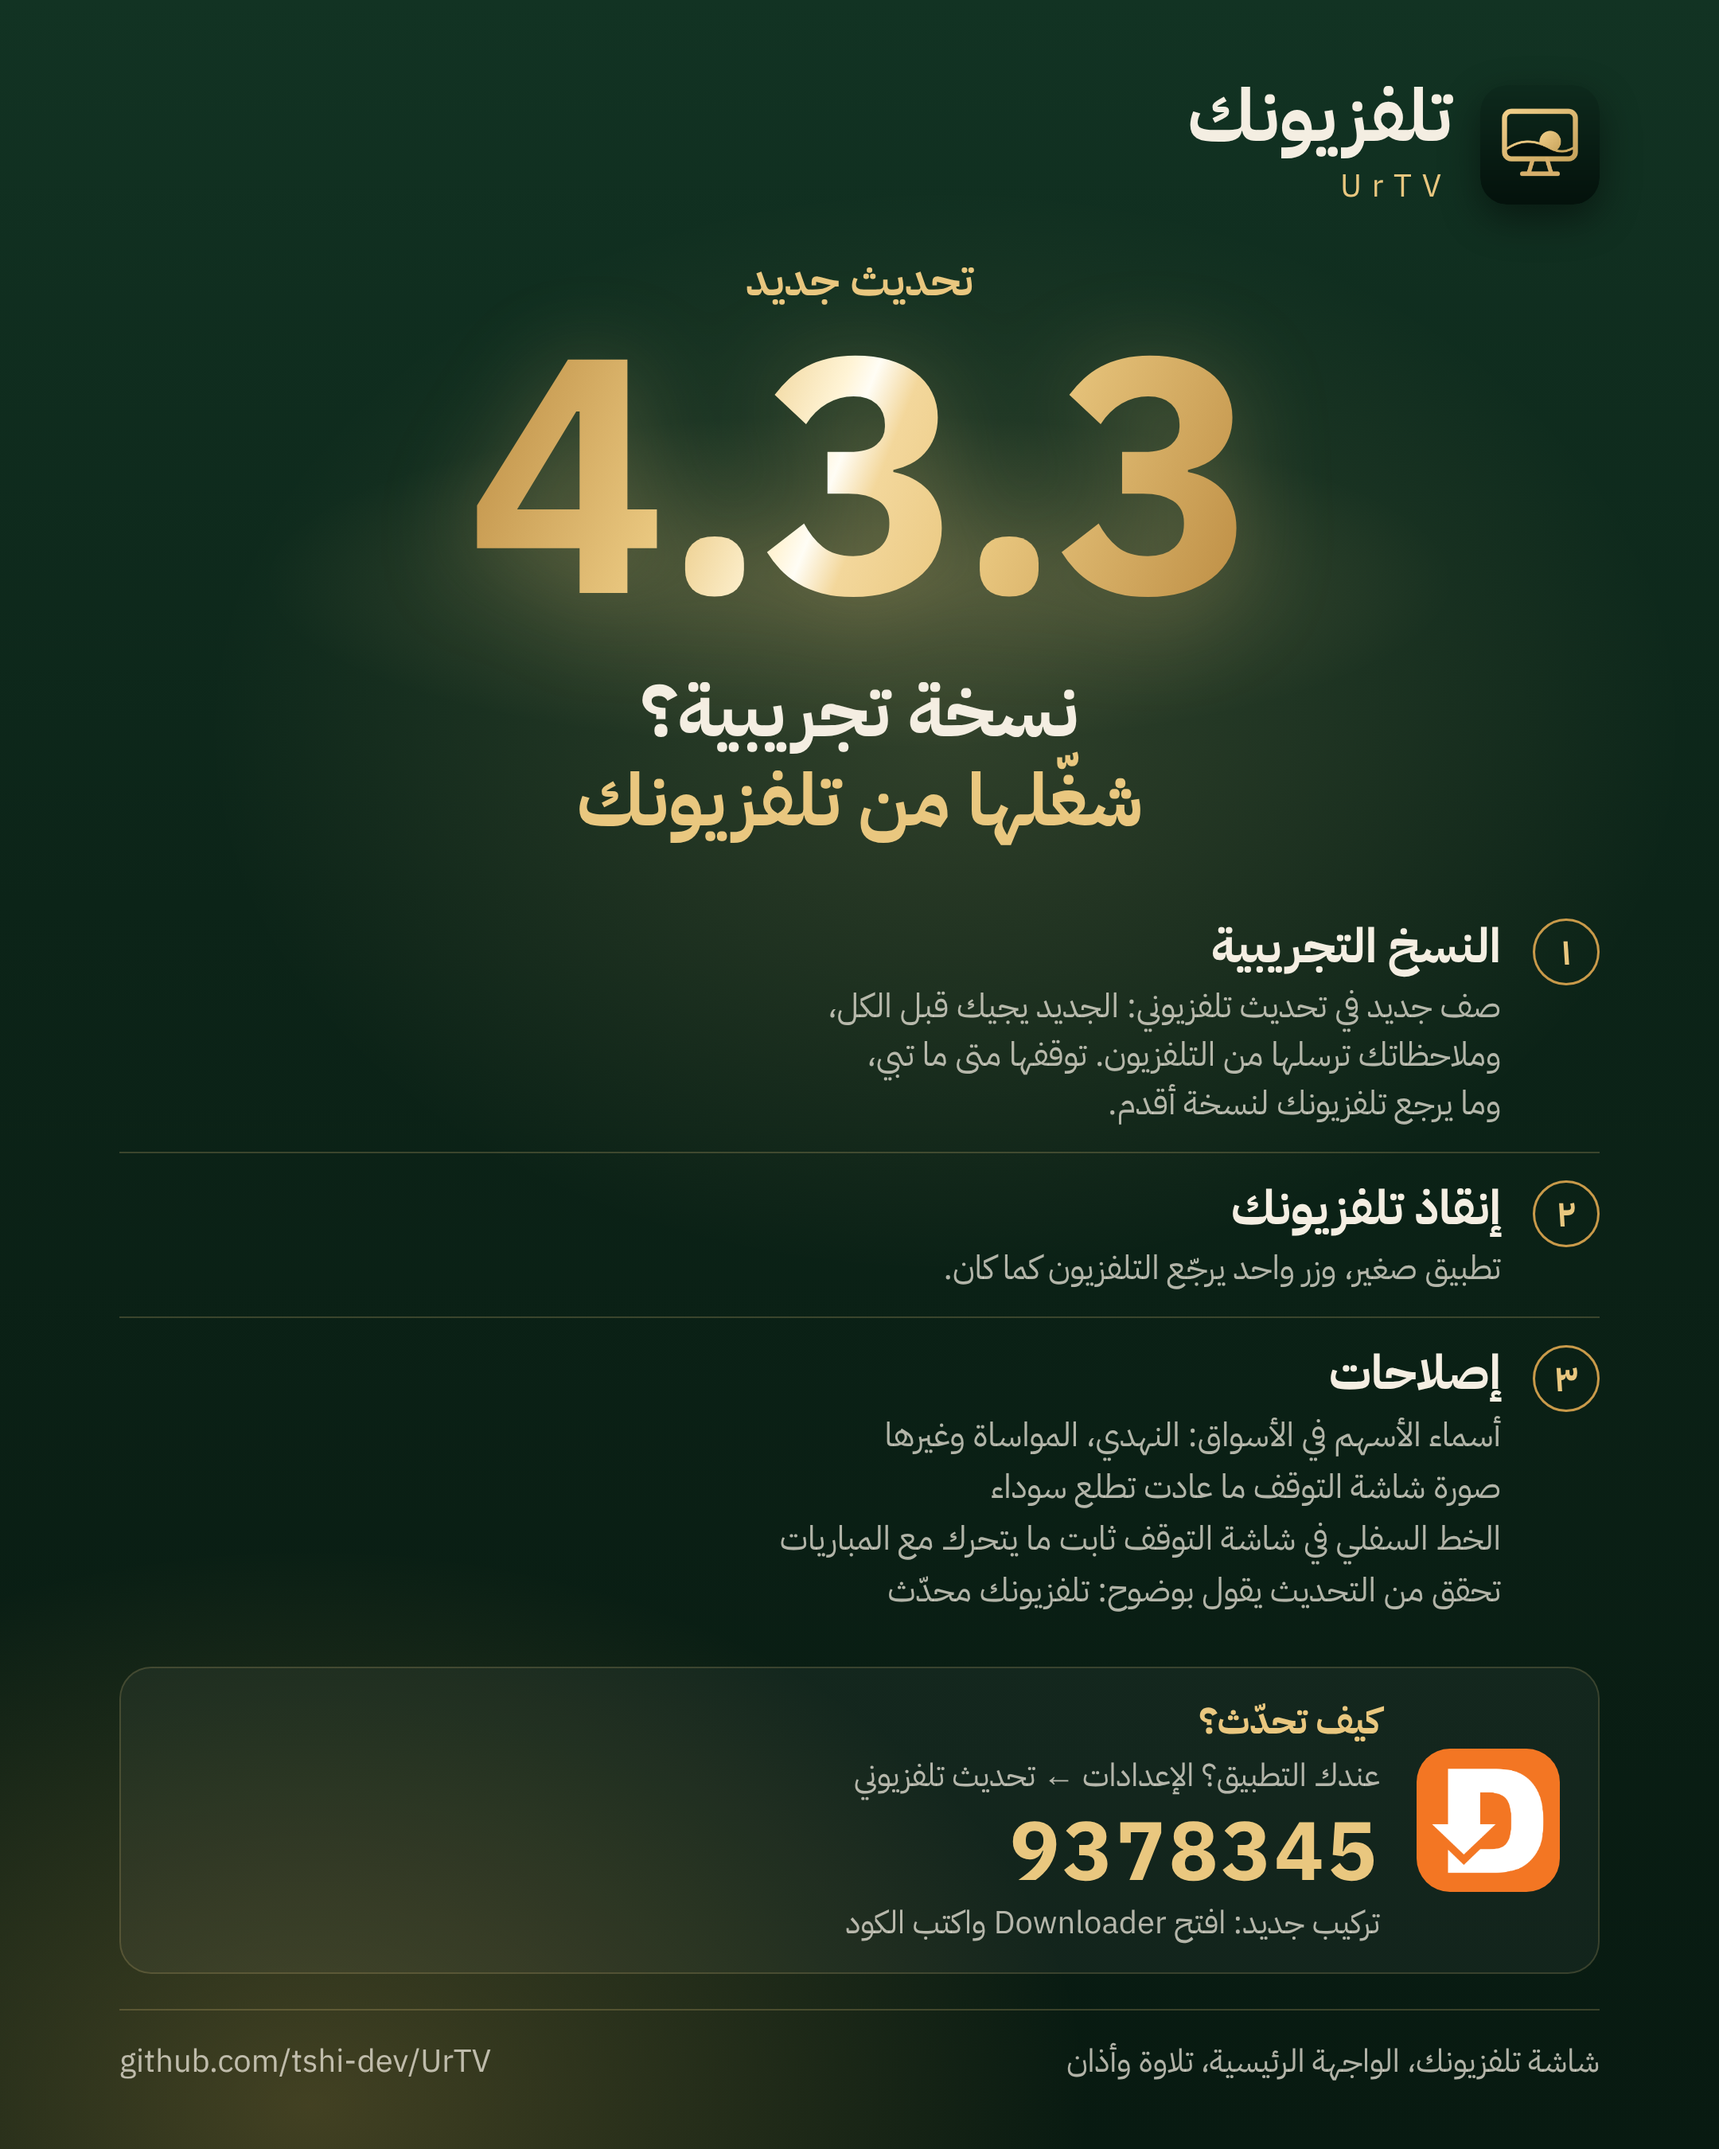
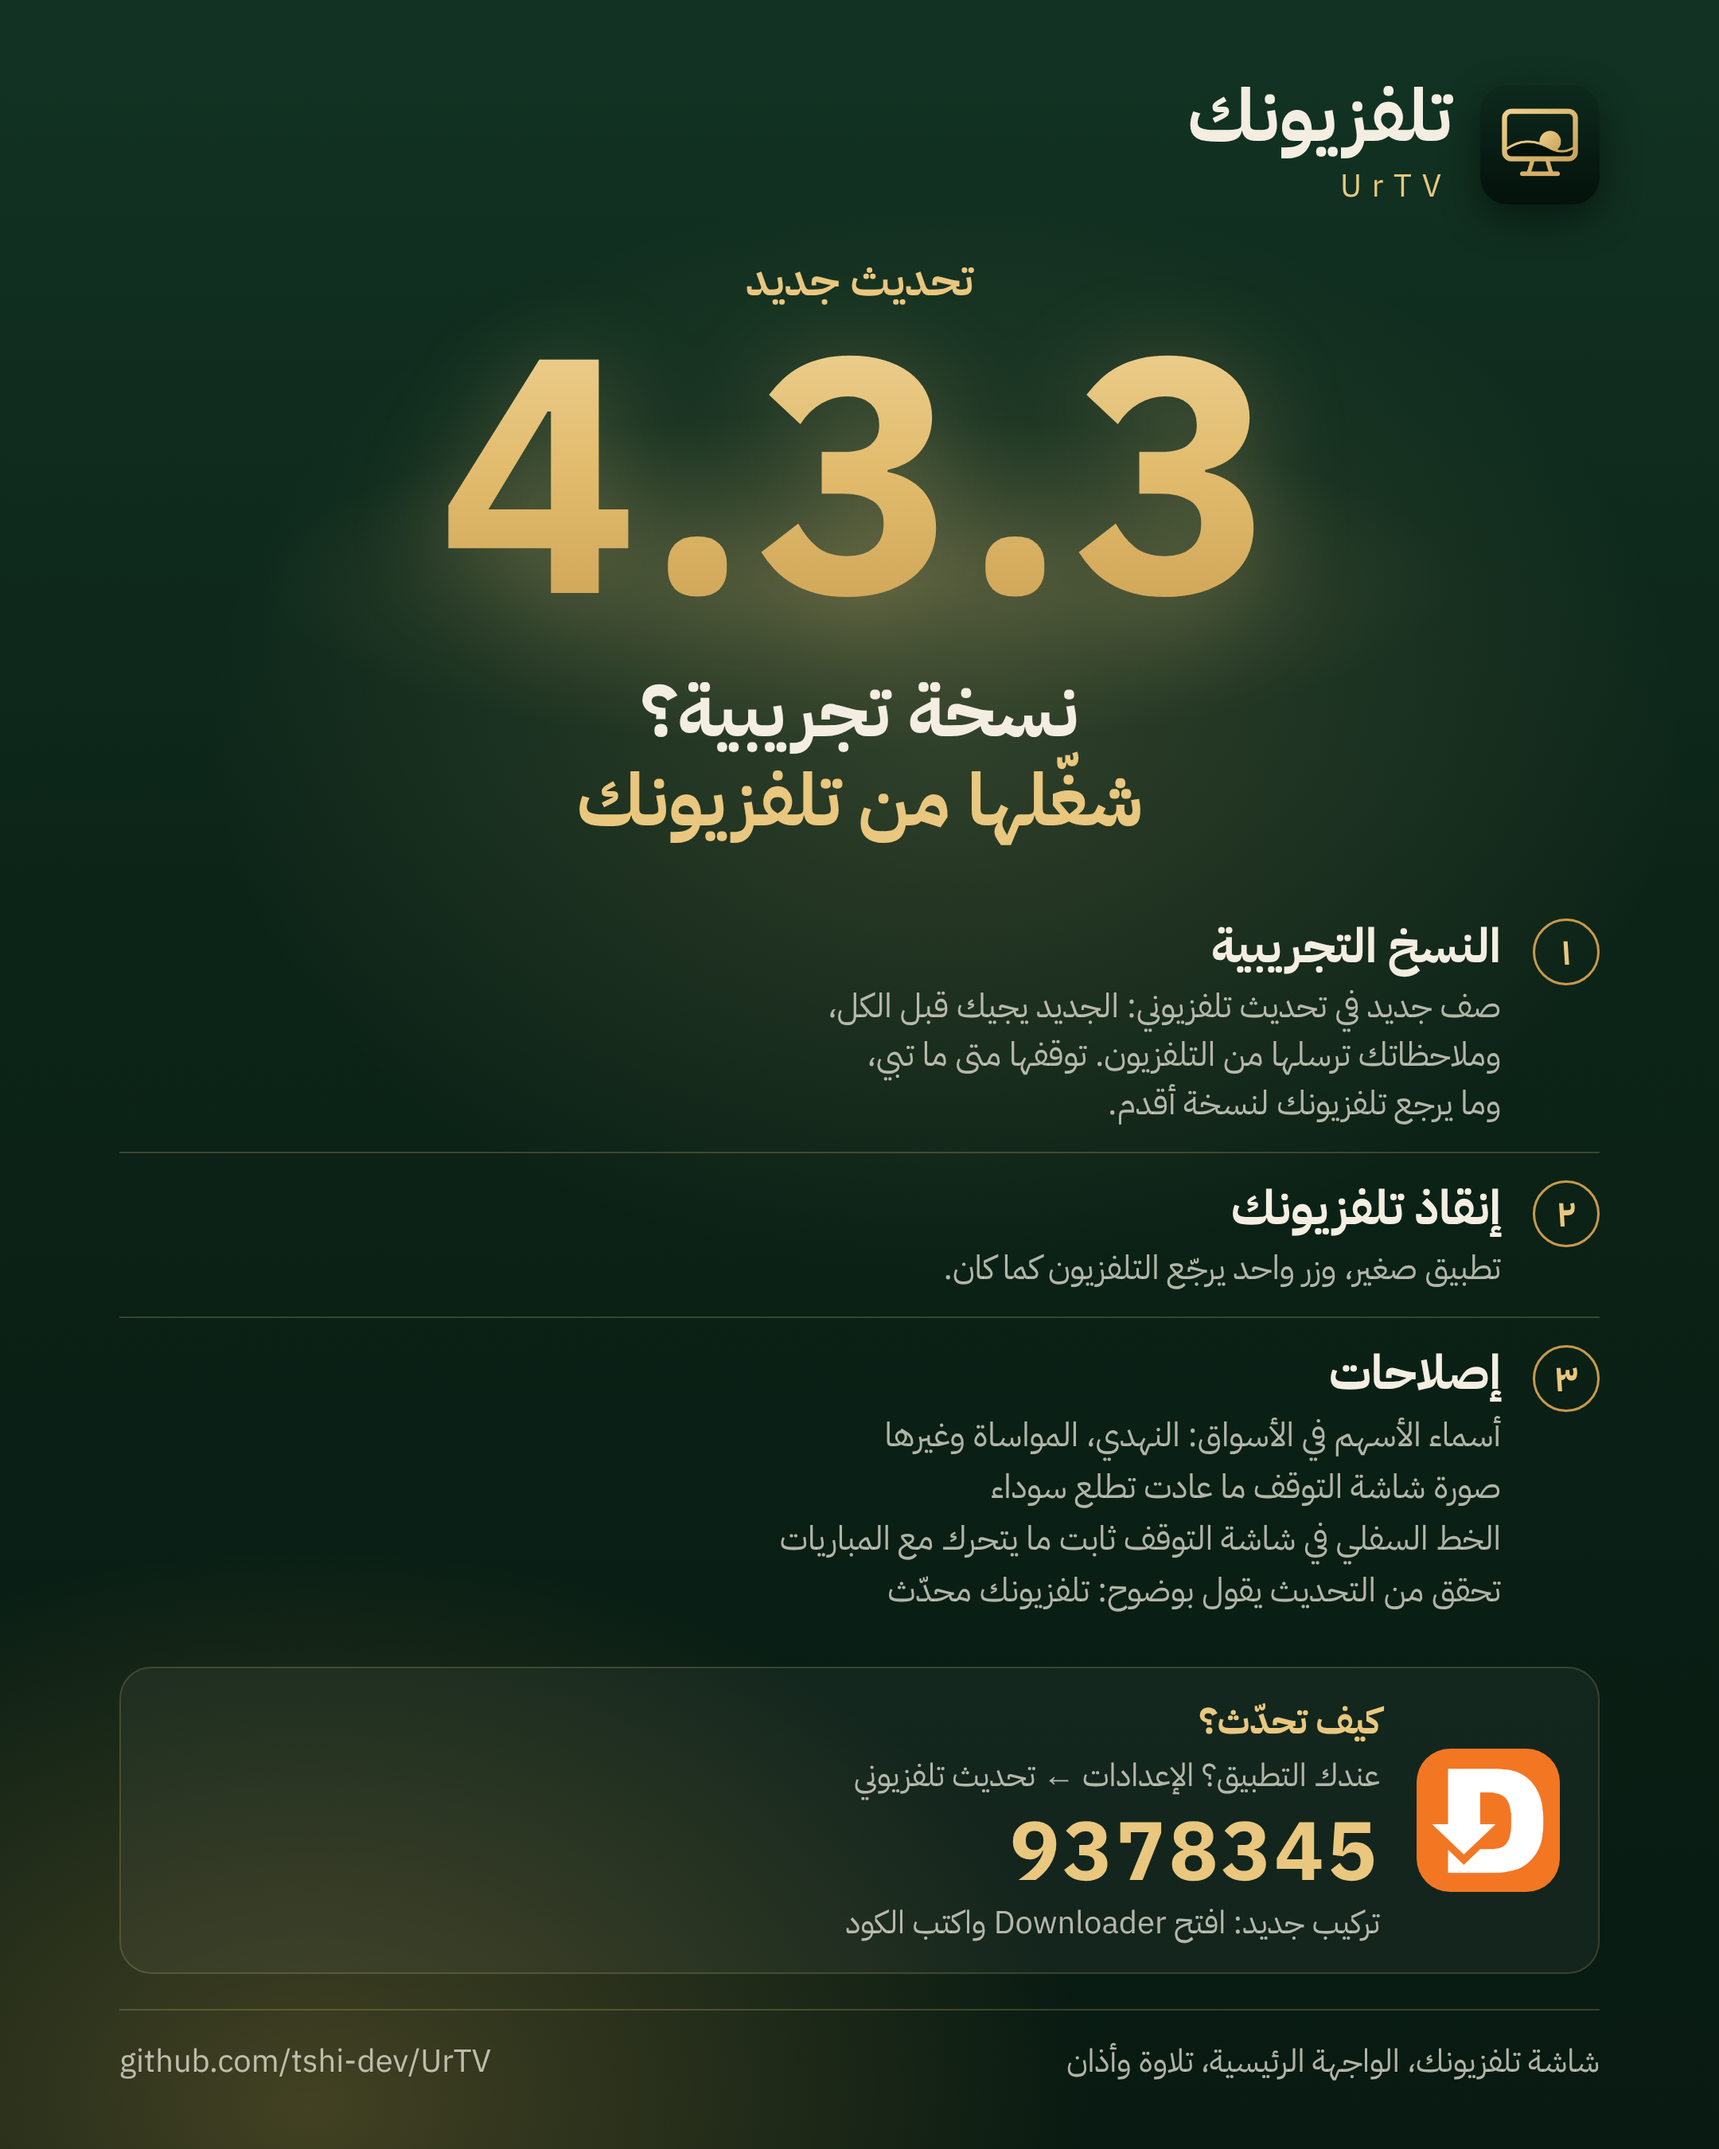
Poster 4.3.3: «4.3.3» as one even gold (the owner: the sheen washed the middle «.3» white): (a) a faint sheen from the top, the same on every digit, at most light gold; (b) a flat gold with a soft outer glow; even spacing; the glow behind kept

Changed region(s): [[0.2481, 0.1556, 0.7444, 0.28]]

diff --git a/docs/posters/4.3.3/poster-433-b.html b/docs/posters/4.3.3/poster-433-b.html
@@ -1,0 +1,99 @@
+<!doctype html>
+<html lang="ar" dir="rtl">
+<head>
+<meta charset="utf-8">
+<title>UrTV 4.3.3</title>
+<style>
+@font-face{font-family:'P';font-weight:400;src:url(a/ibm-plex-sans-arabic-arabic-400-normal.woff2);unicode-range:U+0600-06FF,U+0750-077F,U+FB50-FDFF,U+FE70-FEFF,U+200C-200F}
+@font-face{font-family:'P';font-weight:400;src:url(a/ibm-plex-sans-arabic-latin-400-normal.woff2);unicode-range:U+0000-00FF,U+2000-206F,U+2190-21FF}
+@font-face{font-family:'P';font-weight:500;src:url(a/ibm-plex-sans-arabic-arabic-500-normal.woff2);unicode-range:U+0600-06FF,U+0750-077F,U+FB50-FDFF,U+FE70-FEFF,U+200C-200F}
+@font-face{font-family:'P';font-weight:500;src:url(a/ibm-plex-sans-arabic-latin-500-normal.woff2);unicode-range:U+0000-00FF,U+2000-206F,U+2190-21FF}
+@font-face{font-family:'P';font-weight:600;src:url(a/ibm-plex-sans-arabic-arabic-600-normal.woff2);unicode-range:U+0600-06FF,U+0750-077F,U+FB50-FDFF,U+FE70-FEFF,U+200C-200F}
+@font-face{font-family:'P';font-weight:600;src:url(a/ibm-plex-sans-arabic-latin-600-normal.woff2);unicode-range:U+0000-00FF,U+2000-206F,U+2190-21FF}
+@font-face{font-family:'P';font-weight:700;src:url(a/ibm-plex-sans-arabic-arabic-700-normal.woff2);unicode-range:U+0600-06FF,U+0750-077F,U+FB50-FDFF,U+FE70-FEFF,U+200C-200F}
+@font-face{font-family:'P';font-weight:700;src:url(a/ibm-plex-sans-arabic-latin-700-normal.woff2);unicode-range:U+0000-00FF,U+2000-206F,U+2190-21FF}
+/* the app's fonts first (Thmanyah, where installed), IBM Plex Sans Arabic otherwise */
+:root{--gold:#E9C77F;--gold2:#C99A4A;--ink:#F4EEE2;--dim:rgba(244,238,226,.72);--line:rgba(233,199,127,.22)}
+*{box-sizing:border-box;margin:0;padding:0}
+html,body{width:2160px;height:2700px;overflow:hidden}
+body{direction:rtl;color:var(--ink);font-family:'Thmanyah','P',sans-serif;position:relative;
+  background:
+    radial-gradient(1400px 1000px at 18% 98%,rgba(201,154,74,.30),rgba(201,154,74,0) 70%),
+    radial-gradient(1500px 1100px at 55% 34%,rgba(233,199,127,.16),rgba(233,199,127,0) 62%),
+    linear-gradient(180deg,#123323 0%,#0C2418 42%,#081A11 100%)}
+.disp{font-family:'Thmanyah Display','P',sans-serif}
+.top{position:absolute;top:100px;right:150px;left:150px;display:flex;align-items:center;gap:36px}
+.top img{width:150px;height:150px;border-radius:34px;box-shadow:0 18px 50px rgba(0,0,0,.45)}
+.brand b{display:block;font-size:92px;font-weight:700;line-height:1}
+.brand span{display:block;font-size:40px;letter-spacing:.32em;color:var(--gold);direction:ltr;text-align:right;margin-top:12px}
+.hero{position:absolute;top:310px;left:0;right:0;text-align:center}
+.kick{font-size:56px;font-weight:600;color:var(--gold)}
+.ver{position:relative;display:inline-block;direction:ltr;font-size:420px;font-weight:700;line-height:1;letter-spacing:.02em;margin-top:0;
+  /* 4.3.3 as one flat gold, a soft outer glow only */
+  color:#E2BC6E;
+  text-shadow:0 0 40px rgba(233,199,127,.35),0 0 120px rgba(233,199,127,.22)}
+.glow{position:absolute;left:50%;top:520px;width:1500px;height:420px;transform:translateX(-50%);
+  background:radial-gradient(closest-side,rgba(233,199,127,.20),rgba(233,199,127,0));pointer-events:none}
+h1{font-size:92px;font-weight:700;line-height:1.22;margin-top:24px}
+h1 em{font-style:normal;color:var(--gold)}
+.items{position:absolute;top:1150px;right:150px;left:150px}
+.it{display:flex;gap:40px;align-items:flex-start;padding:30px 0;border-top:2px solid var(--line)}
+.it:first-child{border-top:0;padding-top:0}
+.n{flex:none;width:84px;height:84px;border-radius:50%;border:3px solid var(--gold2);color:var(--gold);display:flex;align-items:center;justify-content:center;font-size:48px;font-weight:600;margin-top:4px}
+.t{font-size:60px;font-weight:700;line-height:1.3}
+.s{font-size:42px;color:var(--dim);line-height:1.45;margin-top:6px}
+.fix{font-size:42px;color:var(--dim);line-height:1.55;margin-top:6px}
+.how{position:absolute;bottom:220px;right:150px;left:150px;border-radius:40px;padding:34px 50px;display:flex;align-items:center;gap:46px;
+  background:rgba(255,255,255,.045);box-shadow:inset 0 0 0 2px rgba(233,199,127,.18)}
+.how .dl{flex:none;width:180px;height:180px;border-radius:42px;overflow:hidden}
+.how .dl img{width:198px;height:198px;margin:-9px}
+.how .q{font-size:46px;font-weight:700;color:var(--gold)}
+.how .p{font-size:40px;color:var(--dim);margin-top:4px}
+.how .code{direction:ltr;text-align:right;font-size:104px;font-weight:700;line-height:1.05;letter-spacing:4px;color:var(--gold);margin-top:12px}
+.foot{position:absolute;bottom:80px;right:150px;left:150px;display:flex;justify-content:space-between;font-size:40px;color:var(--dim);
+  border-top:2px solid var(--line);padding-top:34px}
+.foot .l{direction:ltr}
+bdi{unicode-bidi:isolate}
+</style>
+</head>
+<body>
+<div class="top">
+  <img src="a/urtv.png" alt="">
+  <div class="brand"><b class="disp">تلفزيونك</b><span>UrTV</span></div>
+</div>
+
+<div class="glow"></div>
+<div class="hero">
+  <div class="kick">تحديث جديد</div>
+  <div class="ver disp">4.3.3</div>
+  <h1 class="disp">نسخة تجريبية؟<br><em>شغّلها من تلفزيونك</em></h1>
+</div>
+
+<div class="items">
+  <div class="it"><div class="n">١</div><div>
+    <div class="t">النسخ التجريبية</div>
+    <div class="s">صف جديد في تحديث تلفزيوني: الجديد يجيك قبل الكل،<br>وملاحظاتك ترسلها من التلفزيون. توقفها متى ما تبي،<br>وما يرجع تلفزيونك لنسخة أقدم.</div>
+  </div></div>
+  <div class="it"><div class="n">٢</div><div>
+    <div class="t">إنقاذ تلفزيونك</div>
+    <div class="s">تطبيق صغير، وزر واحد يرجّع التلفزيون كما كان.</div>
+  </div></div>
+  <div class="it"><div class="n">٣</div><div>
+    <div class="t">إصلاحات</div>
+    <div class="fix">أسماء الأسهم في الأسواق: النهدي، المواساة وغيرها<br>صورة شاشة التوقف ما عادت تطلع سوداء<br>الخط السفلي في شاشة التوقف ثابت ما يتحرك مع المباريات<br>تحقق من التحديث يقول بوضوح: تلفزيونك محدّث</div>
+  </div></div>
+</div>
+
+<div class="how">
+  <div class="dl"><img src="a/downloader.png" alt=""></div>
+  <div>
+    <div class="q">كيف تحدّث؟</div>
+    <div class="p">عندك التطبيق؟ الإعدادات ← تحديث تلفزيوني</div>
+    <div class="code"><bdi>9378345</bdi></div>
+    <div class="p">تركيب جديد: افتح <bdi>Downloader</bdi> واكتب الكود</div>
+  </div>
+</div>
+
+<div class="foot"><div>شاشة تلفزيونك، الواجهة الرئيسية، تلاوة وأذان</div><div class="l">github.com/tshi-dev/UrTV</div></div>
+</body>
+</html>

diff --git a/docs/posters/4.3.3/poster-433.html b/docs/posters/4.3.3/poster-433.html
@@ -28,9 +28,10 @@ body{direction:rtl;color:var(--ink);font-family:'Thmanyah','P',sans-serif;positi
 .brand span{display:block;font-size:40px;letter-spacing:.32em;color:var(--gold);direction:ltr;text-align:right;margin-top:12px}
 .hero{position:absolute;top:310px;left:0;right:0;text-align:center}
 .kick{font-size:56px;font-weight:600;color:var(--gold)}
-.ver{position:relative;display:inline-block;direction:ltr;font-size:420px;font-weight:700;line-height:1;letter-spacing:-6px;margin-top:0;
+.ver{position:relative;display:inline-block;direction:ltr;font-size:420px;font-weight:700;line-height:1;letter-spacing:.02em;margin-top:0;
   color:transparent;-webkit-background-clip:text;background-clip:text;
-  background-image:linear-gradient(112deg,#B9883E 0%,#E9C77F 30%,#FFF4D6 44%,#FFFDF5 47%,#F3D79B 52%,#E9C77F 66%,#B9883E 100%);
+  /* 4.3.3 as one even gold: a faint sheen from the top (light gold #EBCD8C at most), the same on every digit, no digit white */
+  background-image:linear-gradient(180deg,#EBCD8C 8%,#E2BC6E 46%,#CFA457 92%);
   filter:drop-shadow(0 18px 60px rgba(233,199,127,.28))}
 .glow{position:absolute;left:50%;top:520px;width:1500px;height:420px;transform:translateX(-50%);
   background:radial-gradient(closest-side,rgba(233,199,127,.20),rgba(233,199,127,0));pointer-events:none}

diff --git a/docs/posters/4.3.3/README.md b/docs/posters/4.3.3/README.md
@@ -4,6 +4,13 @@
 
 The source is `poster-433.html`. To render it, put the IBM Plex Sans Arabic woff2 files (OFL, from `@fontsource/ibm-plex-sans-arabic`) in `a/` and screenshot the page at 2160×2700. The page names Thmanyah first, so a machine that has the app's private fonts renders it in Thmanyah; this PNG is in IBM Plex Sans Arabic because the fonts are not in this repository. The Downloader icon is cropped from the approved 4.3.1 poster.
 
+## The number (the owner: «the 4.3.3 in the middle needs fixing»)
+
+The first sheen ran across the number and washed the middle «.3» almost white. «4.3.3» now reads as one even gold, with even spacing (0.02em) and the soft glow behind it kept.
+
+- `urtv-4.3.3-a.png` (also `urtv-4.3.3.png`, source `poster-433.html`): an even gold with a faint sheen from the top, the same on every digit, at most light gold #EBCD8C.
+- `urtv-4.3.3-b.png` (source `poster-433-b.html`): a flat gold #E2BC6E with a soft outer glow only.
+
 ## Headline (two options)
 
 1. «نسخة تجريبية؟ شغّلها من تلفزيونك» (on the poster)
